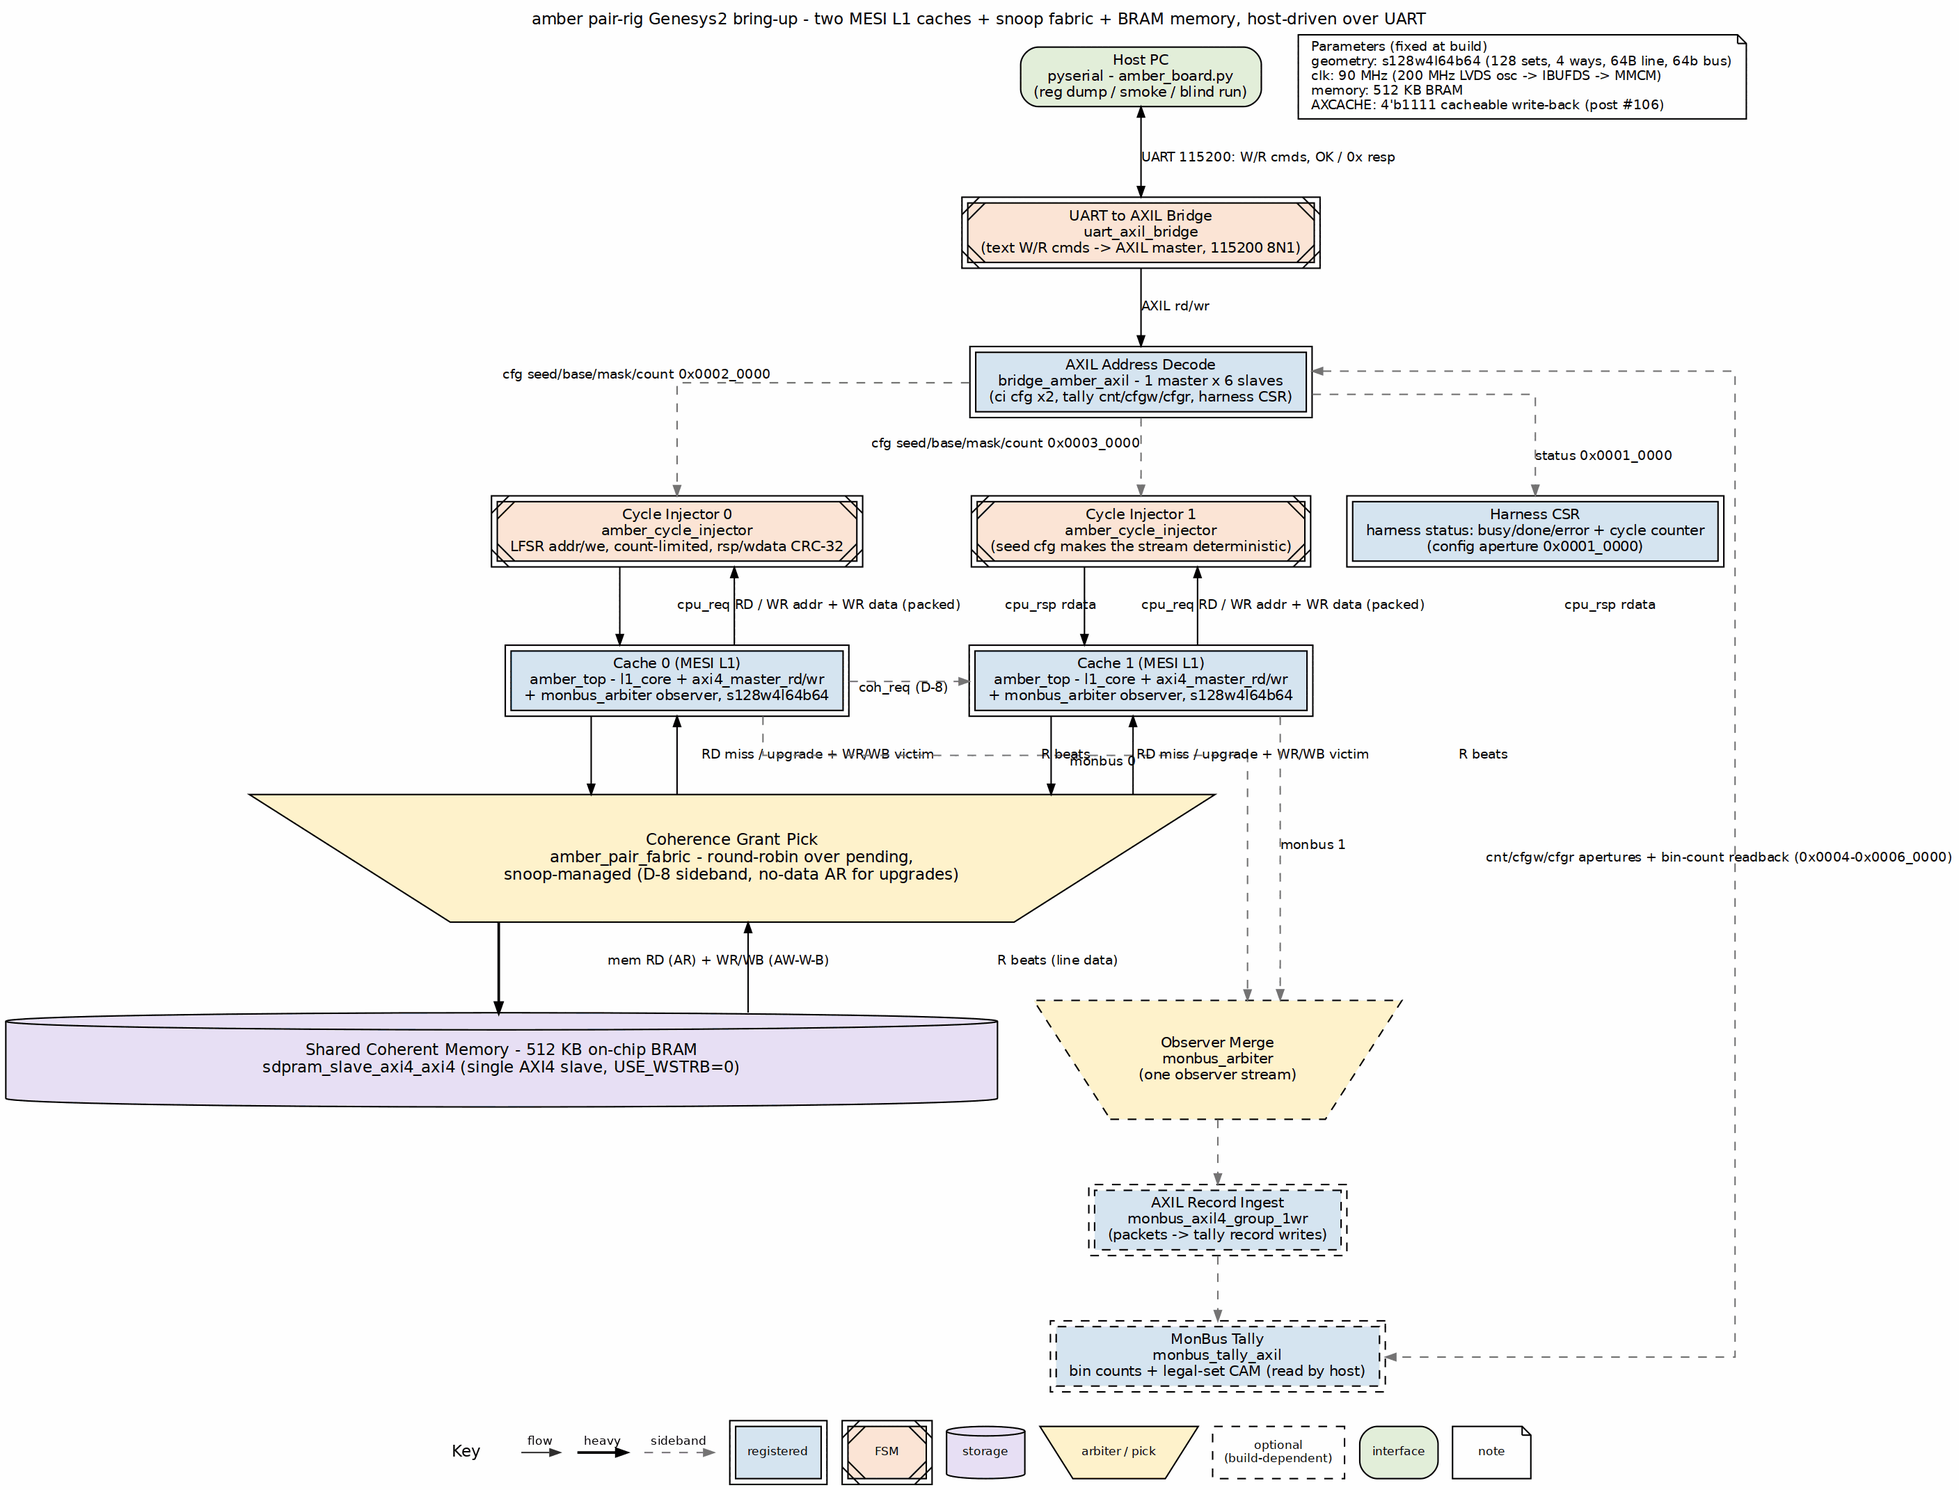
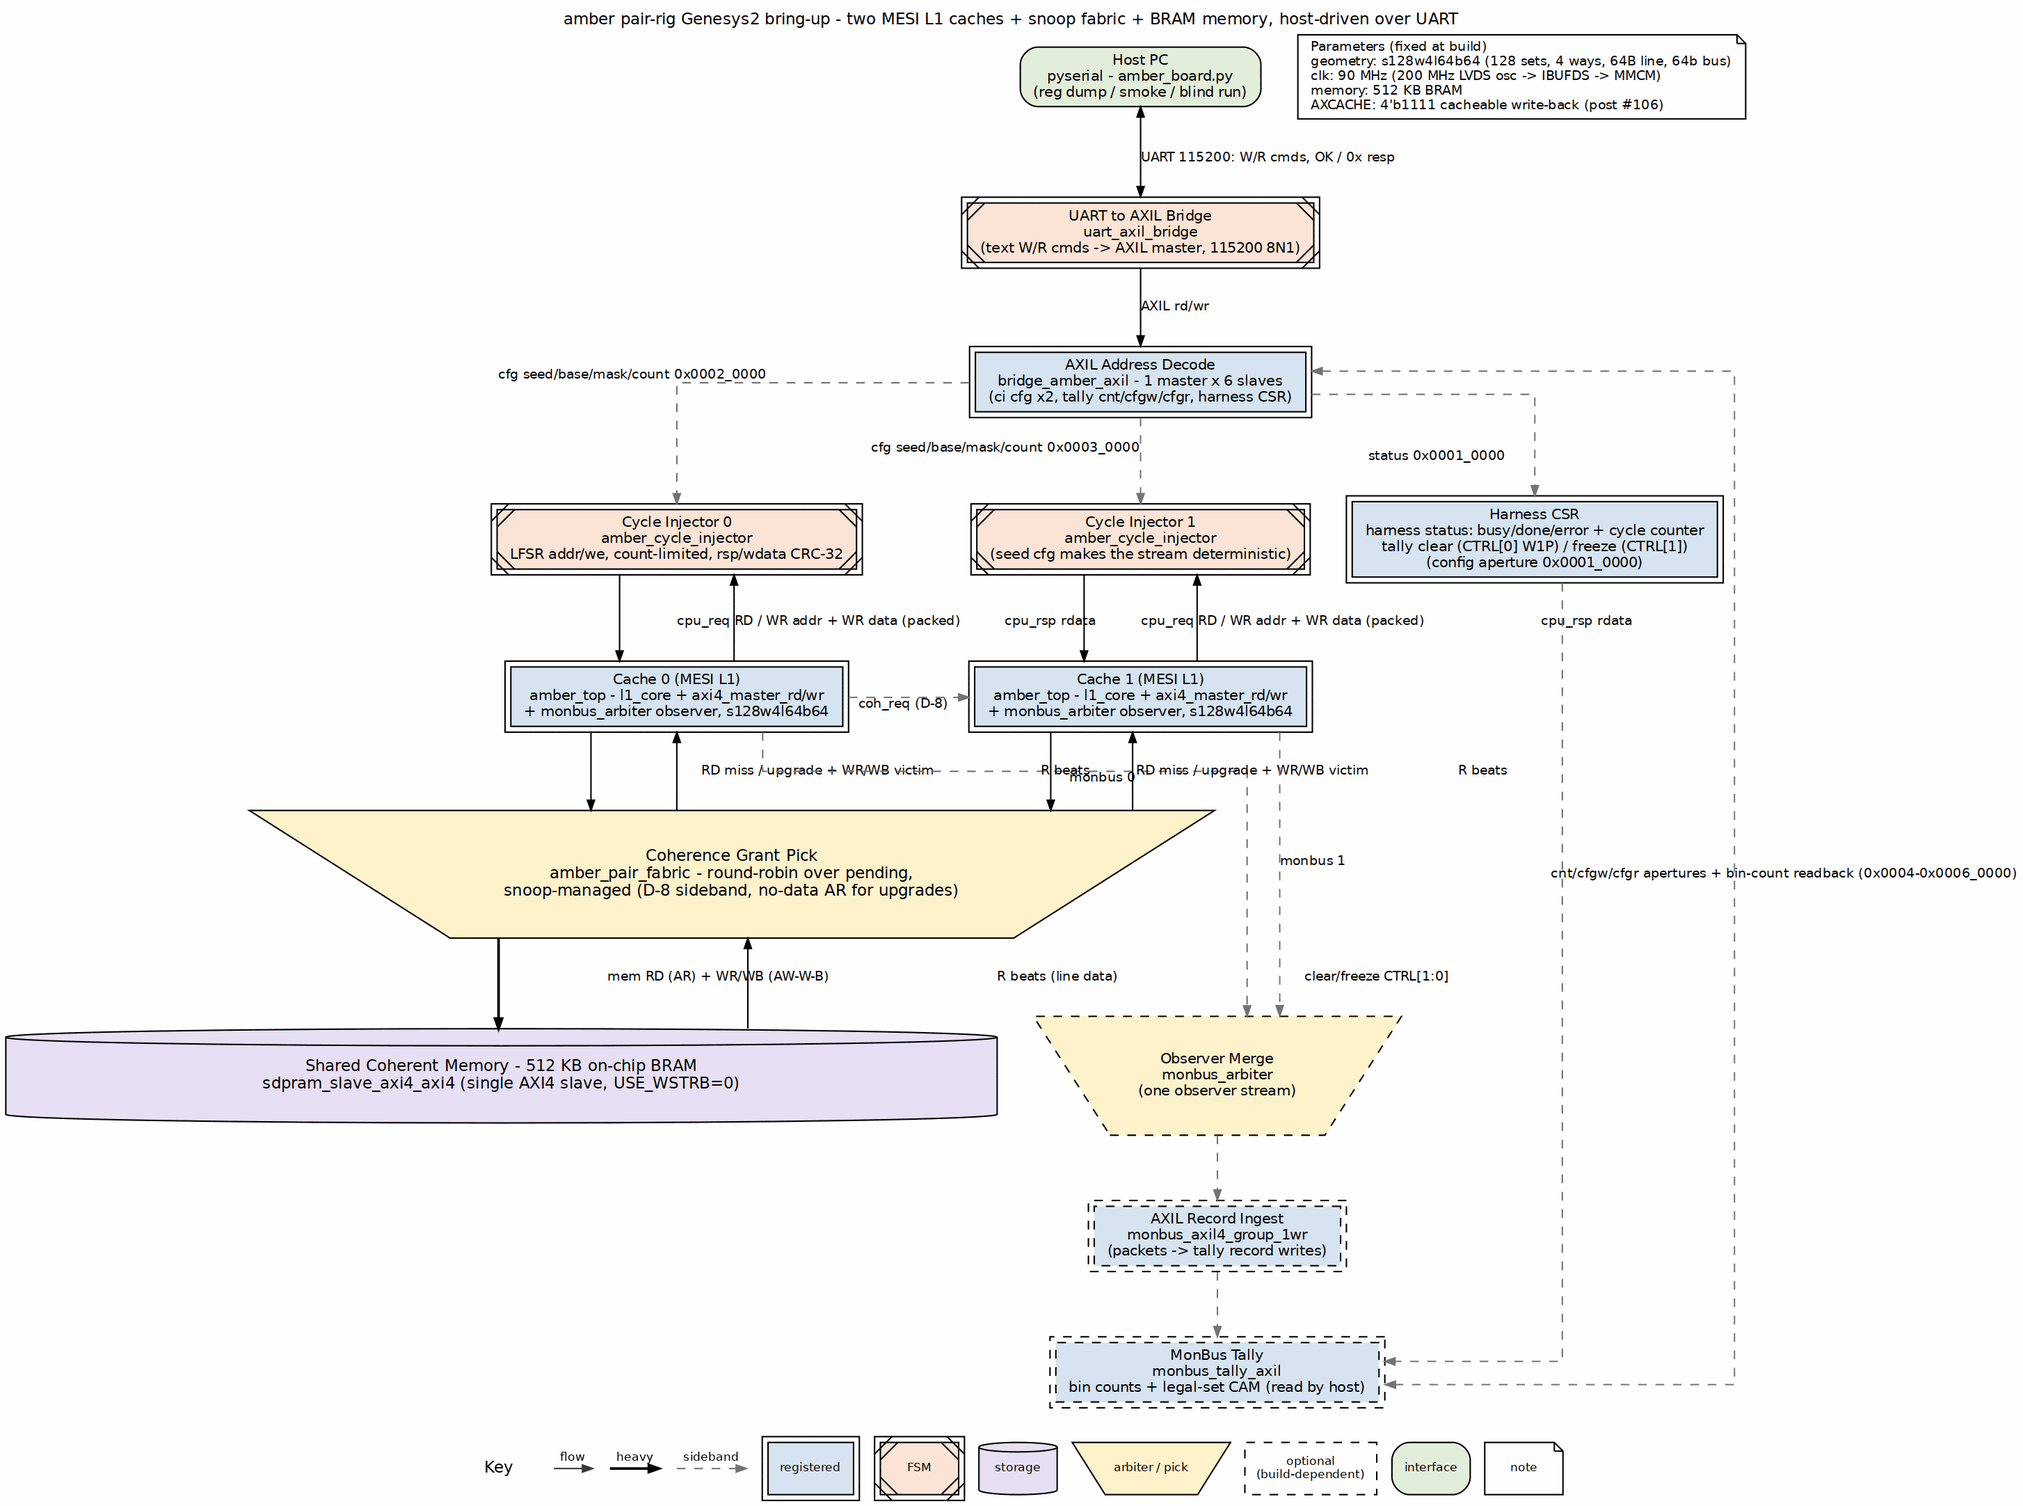
fix(amber-g2): wire tally clear/freeze to harness CSR (formal/amber TASK-001 item 1)
tally_clear/tally_freeze were tied off since the original bring-up
(309d5be40) even though monbus_tally_axil was built for CSR control
(i_clear expects a one-cycle pulse from 'the host CSR block') and
hcsr_ctrl sat as a dead output. CTRL[0] is now write-1-pulse in
amber_harness_csr (self-clearing, reads 0) driving tally_clear; CTRL[1]
is a level driving tally_freeze.

Host: AmberDriver.tally_clear() (RMW, preserves freeze) and
tally_freeze(on); harness_probe magic moved to 0xC0FFEE58 so the scratch
round-trip can neither fire a spurious clear nor stick freeze. The perf
sweep drops before/after differential bookkeeping: each run is now
settle -> freeze -> read -> clear, and every clear re-arms the
first-event latch bank.

DV: new tally_clear_freeze_test pins W1P readback, clear-to-zero,
frozen-run drop, and resume-after-unfreeze (red before the wiring, green
after). AXIL func+gate green, UART equivalence func+gate green, harness
verilator lint clean. Docs/diagrams updated (address_map CTRL row,
README sweep paragraph, tally-path + whole-unit figures show the
clear/freeze sideband).

Board rebuild + sweep re-run still pending (needs the Genesys 2). Items
2-4 of TASK-001 (latency counters, bigger latch bank, RDL latch entries)
remain open.

diff --git a/projects/fpga-systems/Genesys2/cache-ip/amber/host/amber_perf_sweep.py b/projects/fpga-systems/Genesys2/cache-ip/amber/host/amber_perf_sweep.py
@@ -8,13 +8,15 @@ per-channel elapsed times and software post-processes them, this sweep
 characterizes the amber MESI L1 pair on silicon from telemetry the board
 already has:
 
-  - MonBus tally bins (hit / miss / snoop / AXI read / AXI write) per run,
-    taken as DIFFERENCES (tally_clear is tied off in amber_pair_harness, so
-    counts accumulate across runs; per-run counts = after - before).
+  - MonBus tally bins (hit / miss / snoop / AXI read / AXI write) per run.
+    harness CSR CTRL drives monbus_tally_axil directly (CTRL[0]=clear W1P,
+    CTRL[1]=freeze level), so each run is a clean window: settle, freeze,
+    read, clear. No before/after subtraction.
   - Injector acc/rsp counts + CRC-32s (integrity and determinism).
-  - Tally first-event latch bank: exactly one shot per board reset (the
-    bank has no clear), used to capture the first four MonBus events of one
-    run with 90 MHz hardware timestamps and full 64-bit addresses.
+  - Tally first-event latch bank: re-armed by every tally_clear (the clear
+    walk resets latch_fill), so any config with latch=True captures its own
+    first four MonBus events with 90 MHz hardware timestamps and full
+    64-bit addresses.
 
 The sweep matrix walks region size (working set vs the 32 KB cache
 capacity), write mix, and sharing to expose the paths the fixed 4 KB smoke
@@ -114,6 +116,7 @@ CONFIGS = [
 def run_sweep(driver, *, count, configs=None, settle=0.25, say=print):
     names = set(configs) if configs else None
     driver.clear_and_load_profile(build_default_profile())
+    driver.tally_clear()  # start from zeroed bins; each run below re-clears
     results = []
     for name, mask, base0, base1, we_mix, do_latch in CONFIGS:
         if names and name not in names:
@@ -124,7 +127,6 @@ def run_sweep(driver, *, count, configs=None, settle=0.25, say=print):
         if do_latch:
             driver.bus["tally_cfgw"].write("WATCH_CTRL", ARM=1, MASK=0x0001)
 
-        bins_before, unc_before = _read_bins(driver)
         driver.configure_ci("ci0", seed=SEED0, addr_base=base0,
                             addr_mask=mask, count=count, we_mix=we_mix)
         driver.configure_ci("ci1", seed=SEED1, addr_base=base1,
@@ -133,26 +135,35 @@ def run_sweep(driver, *, count, configs=None, settle=0.25, say=print):
         driver.start_all()
         ok = driver.wait_done(timeout=180.0)
         wall = time.monotonic() - t0
-        time.sleep(settle)  # let the MonBus path drain before snapshotting
+        time.sleep(settle)  # let the MonBus path drain into the bins
 
-        bins_after, unc_after = _read_bins(driver)
-        delta = [a - b for a, b in zip(bins_after, bins_before)]
-        unc = unc_after - unc_before
+        # Freeze for a coherent snapshot, read, then clear for the next run
+        # (tally_clear is RMW: the freeze level survives the clear).
+        driver.tally_freeze(True)
+        bins, unc = _read_bins(driver)
+        delta = bins
+        unc_ = unc
 
         st0 = driver.ci_status("ci0")
         st1 = driver.ci_status("ci1")
         crc0 = driver.ci_crcs("ci0")
         crc1 = driver.ci_crcs("ci1")
 
+        if do_latch:
+            latch = _latch_capture(driver)
+
+        driver.tally_clear()
+        driver.tally_freeze(False)
+
         rec = {
             "config": name, "count": count, "mask": f"0x{mask:06x}",
             "base0": f"0x{base0:05x}", "base1": f"0x{base1:05x}",
             "we_mix": we_mix, "done": ok, "wall_s": round(wall, 3),
-            "delta_bins": delta, "unexpected": unc,
+            "bins": bins, "unexpected": unc_,
             "ci0": {**st0, **crc0}, "ci1": {**st1, **crc1},
         }
         if do_latch:
-            rec["latch"] = _latch_capture(driver)
+            rec["latch"] = latch
         results.append(rec)
 
         hits, misses, snoops, evicts, drops = delta[0], delta[1], delta[2], \

diff --git a/projects/fpga-systems/Genesys2/cache-ip/amber/dv/tests/test_amber_pair_harness_axil.py b/projects/fpga-systems/Genesys2/cache-ip/amber/dv/tests/test_amber_pair_harness_axil.py
@@ -305,6 +305,76 @@ async def smoke_test(dut):
         "tally bins all zero: MonBus observation path is silent"
 
 
+async def _load_default_profile(tb):
+    await tb.write32(ADDR_TALLY_CFGW + TALLY_CAM_CLEAR, 0)
+    for key, idx in _default_profile():
+        await tb.write32(ADDR_TALLY_CFGW + TALLY_CAM_KEY, key)
+        await tb.write32(ADDR_TALLY_CFGW + TALLY_CAM_LOAD, (1 << 31) | (idx & 0xFF))
+
+
+async def _run_burst(tb, count: int):
+    """Program both injectors on the same 4 KB region and run to done."""
+    for ci_base, seed in [(ADDR_CYCLE_INJECTOR0, 0x1234_5678),
+                          (ADDR_CYCLE_INJECTOR1, 0xDEAD_BEEF)]:
+        await tb.write32(ci_base + CI_SEED, seed)
+        await tb.write32(ci_base + CI_ADDR_BASE, 0x0000_0000)
+        await tb.write32(ci_base + CI_ADDR_MASK, 0x0000_0FFF)
+        await tb.write32(ci_base + CI_TRANS_COUNT, count)
+        await tb.write32(ci_base + CI_CTRL, 64 << 8)
+    await tb.write32(ADDR_CYCLE_INJECTOR0 + CI_CTRL, (64 << 8) | 0x01)
+    await tb.write32(ADDR_CYCLE_INJECTOR1 + CI_CTRL, (64 << 8) | 0x01)
+
+    for _ in range(500_000):
+        status = await tb.read32(ADDR_HARNESS_CSR + HCSR_STATUS)
+        if (status & 0x03) == 0x03:
+            return
+    raise AssertionError("cycle injectors did not finish")
+
+
+async def _read_bins(tb, n: int = 8):
+    return [await tb.read64(ADDR_TALLY_CNT + i * 8) for i in range(n)]
+
+
+@cocotb.test(timeout_time=5000, timeout_unit="ms")
+async def tally_clear_freeze_test(dut):
+    """harness_csr CTRL[0]=tally_clear (write-1-pulse) and CTRL[1]=tally_freeze
+    (level) drive monbus_tally_axil. Pins the amber TASK-001 item-1 wiring;
+    before it, CTRL was a dead register and both ports were tied off."""
+    clk_task = cocotb.start_soon(_manual_clock(dut))
+    tb = AmberPairHarnessAXILTest(dut, clk_task)
+    await tb.reset()
+    await _load_default_profile(tb)
+
+    # Burst 1: events accumulate.
+    await _run_burst(tb, count=48)
+    assert sum(await _read_bins(tb)) > 0, "burst 1 produced no tally events"
+
+    # CTRL[0] is W1P: write 1 -> one-cycle clear pulse, reads back 0.
+    await tb.write32(ADDR_HARNESS_CSR + HCSR_CTRL, 0x1)
+    ctrl = await tb.read32(ADDR_HARNESS_CSR + HCSR_CTRL)
+    assert ctrl & 0x1 == 0, f"CTRL[0] must be self-clearing (read 0x{ctrl:08x})"
+
+    # The clear walks the count SRAM one entry per cycle; 256 cycles covers
+    # any legal TALLY_ADDR_BITS with margin.
+    for _ in range(256):
+        await cocotb.triggers.RisingEdge(dut.aclk)
+    bins = await _read_bins(tb)
+    assert sum(bins) == 0, f"tally_clear left nonzero bins: {bins}"
+
+    # CTRL[1] freeze is a level: events dropped (not counted) while held.
+    await tb.write32(ADDR_HARNESS_CSR + HCSR_CTRL, 0x2)
+    ctrl = await tb.read32(ADDR_HARNESS_CSR + HCSR_CTRL)
+    assert ctrl & 0x2, f"CTRL[1] freeze level did not stick (read 0x{ctrl:08x})"
+    await _run_burst(tb, count=48)
+    bins = await _read_bins(tb)
+    assert sum(bins) == 0, f"tally counted while frozen: {bins}"
+
+    # Unfreeze: counting resumes.
+    await tb.write32(ADDR_HARNESS_CSR + HCSR_CTRL, 0x0)
+    await _run_burst(tb, count=48)
+    assert sum(await _read_bins(tb)) > 0, "tally did not resume after unfreeze"
+
+
 @pytest.mark.parametrize("test_level", reg_level_grid())
 def test_amber_pair_harness_axil(request, test_level):
     module = "test_amber_pair_harness_axil"

diff --git a/projects/fpga-systems/Genesys2/cache-ip/amber/host/amber_board.py b/projects/fpga-systems/Genesys2/cache-ip/amber/host/amber_board.py
@@ -66,8 +66,11 @@ def harness_probe():
 
     The amber harness has no BUILD_ID constant, but CTRL is a plain RW storage
     register, so a scratch round-trip is safe and proves the bridge is alive.
+    The magic must keep bits [1:0] clear: CTRL[0] is the tally_clear W1P
+    strobe (self-clears, so it would break the readback match AND clear the
+    tally) and CTRL[1] is tally_freeze (a level that would stick).
     """
-    return scratch_probe(HARNESS_CSR_BASE, magic=0xC0FFEE5A)
+    return scratch_probe(HARNESS_CSR_BASE, magic=0xC0FFEE58)
 
 
 class CycleInjector(Device):
@@ -148,6 +151,21 @@ class AmberDriver:
         for key, idx in profile:
             cfgw.write_word("CAM_KEY", key & 0xFFFF_FFFF)
             cfgw.write("CAM_LOAD", VALID=1, INDEX=idx & 0xFF)
+
+    # ------------------------------------------------------------------
+    # Tally window control (harness CSR CTRL: [0]=clear W1P, [1]=freeze level)
+    # ------------------------------------------------------------------
+    def tally_freeze(self, on: bool = True) -> None:
+        """Hold/release bin counting. Host protocol per monbus_pkt_tally:
+        freeze, read the bins, then clear."""
+        self.bus["harness"].write("CTRL", tally_freeze=1 if on else 0)
+
+    def tally_clear(self) -> None:
+        """Zero every tally bin and re-arm the first-event latches.
+
+        Read-modify-write so the freeze level is preserved: the W1P clear
+        bit always reads back 0, so the read half never re-pulses it."""
+        self.bus["harness"].write("CTRL", tally_clear=1, rmw=True)
 
     # ------------------------------------------------------------------
     # Cycle injectors

diff --git a/projects/fpga-systems/Genesys2/cache-ip/amber/host/amber_harness_csr_regmap.py b/projects/fpga-systems/Genesys2/cache-ip/amber/host/amber_harness_csr_regmap.py
@@ -20,7 +20,11 @@ top_block = {
         'size': 4,
         'sw': 'rw',
         'type': 'reg',
-        'value': {'default': '0x00000000', 'offset': '31:0', 'sw': 'rw', 'type': 'field'},
+        'tally_clear': {'default': '0x0', 'offset': '0', 'sw': 'rw', 'type': 'field'},
+        # tally_clear is write-1-pulse in the RTL: a write with bit 0 set
+        # produces a one-cycle tally_clear strobe and the bit self-clears
+        # (always reads 0). tally_freeze is a plain level bit.
+        'tally_freeze': {'default': '0x0', 'offset': '1', 'sw': 'rw', 'type': 'field'},
     },
     'STATUS': {
         'address': '0x004',

diff --git a/vault/tracking/formal/amber/task/open/TASK-001.md b/vault/tracking/formal/amber/task/open/TASK-001.md
@@ -7,20 +7,33 @@
 
 The BUG-004 fix made the MonBus tally path lossless and correctly keyed,
 and the sweep proved the board can now produce real hit/miss/evict/drain
-rate curves. Four gaps remain between this rig and the stream
-`perf_profiler` level of analysis. All are Genesys2 bring-up collateral
+rate curves. Item 1 (clear/freeze wiring) landed 2026-11-01; three gaps
+remain between this rig and the stream `perf_profiler` level of analysis.
+All are Genesys2 bring-up collateral
 (`projects/fpga-systems/Genesys2/cache-ip/amber/`) — no amber IP RTL
 changes except where noted.
 
 ## Items
 
-1. **Wire `tally_clear` / `tally_freeze` to the harness CSR.** Both are
-   tied off in `amber_pair_harness.sv` (line ~1299) although
-   `monbus_tally_axil` takes them as ports and `hcsr_ctrl` is an unused
-   dead output today. CTRL[0] = clear pulse (write-strobe generated),
-   CTRL[1] = freeze level. Removes the sweep's before/after differential
-   bookkeeping and, more importantly, makes the first-event latch bank
-   re-armable per run instead of one-shot-per-FPGA-load.
+1. ~~**Wire `tally_clear` / `tally_freeze` to the harness CSR.**~~ **DONE
+   2026-11-01.** `amber_harness_csr` CTRL[0] is now write-1-pulse
+   (self-clearing, reads 0) driving `tally_clear`; CTRL[1] is a level
+   driving `tally_freeze` (`amber_pair_harness.sv`). Host:
+   `AmberDriver.tally_clear()` (RMW, preserves freeze) /
+   `tally_freeze(on)`; `harness_probe()` magic moved to 0xC0FFEE58 so the
+   scratch round-trip can't fire a spurious clear or stick freeze; the
+   perf sweep now freezes → reads → clears per run instead of
+   before/after subtraction, and every run re-arms the latch bank. DV:
+   `tally_clear_freeze_test` in `test_amber_pair_harness_axil.py` pins
+   W1P readback, clear-to-zero, frozen-run drop, and resume-after-unfreeze
+   (was red before the wiring, green after; func+gate). Original text:
+
+   > Both are tied off in `amber_pair_harness.sv` (line ~1299) although
+   > `monbus_tally_axil` takes them as ports and `hcsr_ctrl` is an unused
+   > dead output today. CTRL[0] = clear pulse (write-strobe generated),
+   > CTRL[1] = freeze level. Removes the sweep's before/after differential
+   > bookkeeping and, more importantly, makes the first-event latch bank
+   > re-armable per run instead of one-shot-per-FPGA-load.
 
 2. **Injector latency counters (the stream perf_profiler analog).** The
    cycle injectors are blocking (one outstanding), so per-request latency

diff --git a/projects/fpga-systems/Genesys2/cache-ip/amber/README.md b/projects/fpga-systems/Genesys2/cache-ip/amber/README.md
@@ -127,9 +127,10 @@ python3 host/amber_perf_sweep.py
 
 The sweep is the stream-perf-analog for amber: it walks the working set
 from 64 B (one line, maximal coherence ping-pong) through 128 KB (4x
-capacity, thrash) at several write mixes, taking MonBus tally bins as
-per-run differentials (tally_clear is tied off in the harness, so counts
-accumulate run over run). From the bins it derives hit rate, snoop rate,
+capacity, thrash) at several write mixes. Each run is a clean tally window:
+harness CSR `CTRL[1]` (freeze) holds the bins for a coherent snapshot and
+`CTRL[0]` (write-1-pulse clear) zeroes them for the next run — no
+before/after subtraction. From the bins it derives hit rate, snoop rate,
 evictions, fills, drains, and AXI transaction counts per configuration.
 The tally legal-set profile is keyed from wire truth — see
 `build_default_profile()` in `host/amber_board.py`.
@@ -164,5 +165,5 @@ All diagrams are Graphviz `.dot` files in `docs/assets/graphviz/`, rendered to
 
 ---
 
-**Last Updated:** 2026-10-14
+**Last Updated:** 2026-11-01
 **Maintained By:** RTL Design Sherpa Project

diff --git a/projects/fpga-systems/Genesys2/cache-ip/amber/docs/address_map.md b/projects/fpga-systems/Genesys2/cache-ip/amber/docs/address_map.md
@@ -56,7 +56,7 @@ bridge.
 
 | Offset | Name | Access | Description |
 | --- | --- | --- | --- |
-| `0x000` | CTRL | RW | Global control (scratch / run gate) |
+| `0x000` | CTRL | RW | `[0]` TALLY_CLEAR — write-1-pulse: one-cycle `tally_clear` strobe to `monbus_tally_axil` (zeros all bins, re-arms the first-event latch bank); self-clears, always reads 0. `[1]` TALLY_FREEZE — level: hold bin counting for a coherent snapshot. `[31:2]` scratch. Host protocol: freeze, read bins, clear (RMW preserves freeze), unfreeze. |
 | `0x004` | STATUS | R | `{26'b0, ci1_err, ci0_err, ci1_busy, ci0_busy, ci1_done, ci0_done}` |
 | `0x008` | CYCLE_LO | R | Free-running cycle counter [31:0] |
 | `0x00C` | CYCLE_HI | R | Free-running cycle counter [63:32] |
@@ -114,5 +114,5 @@ These apertures expose the generated `tally_regs` register block from
 
 ---
 
-**Last Updated:** 2026-10-14
+**Last Updated:** 2026-11-01
 **Maintained By:** RTL Design Sherpa Project
